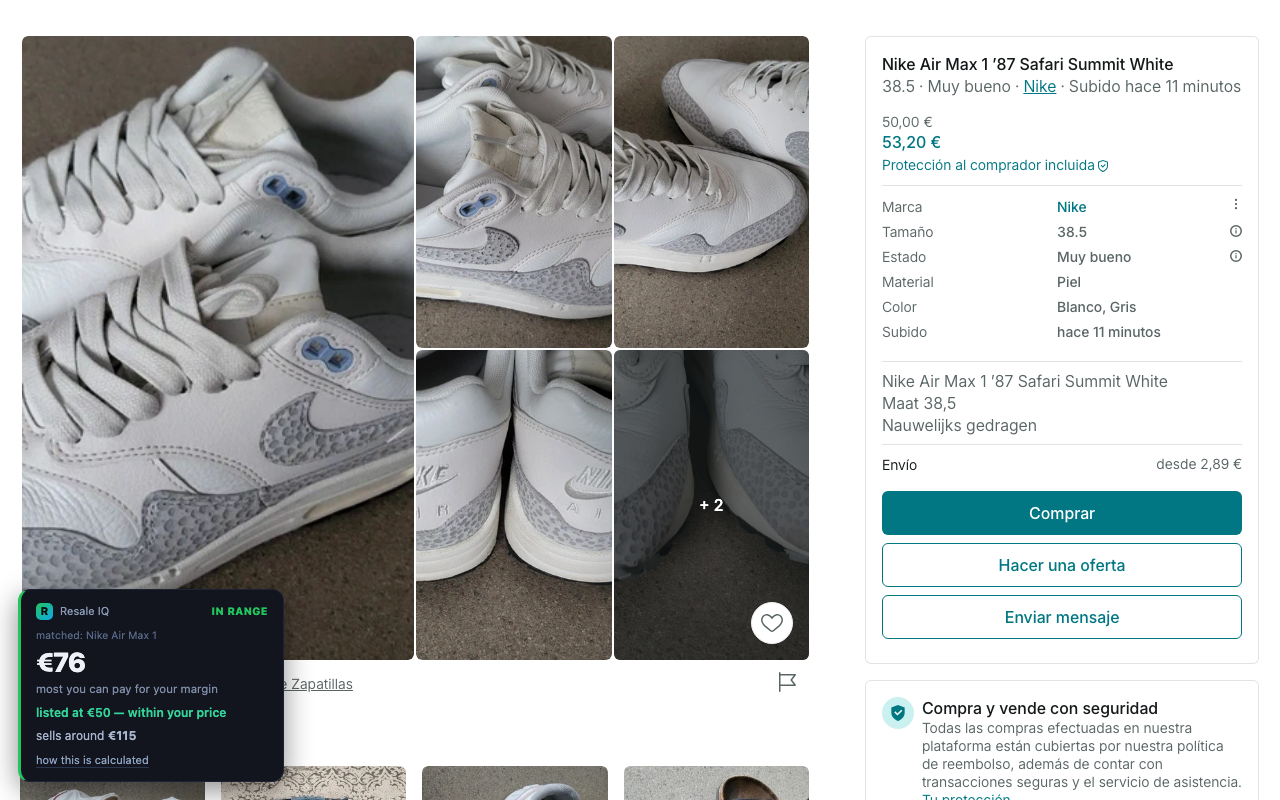
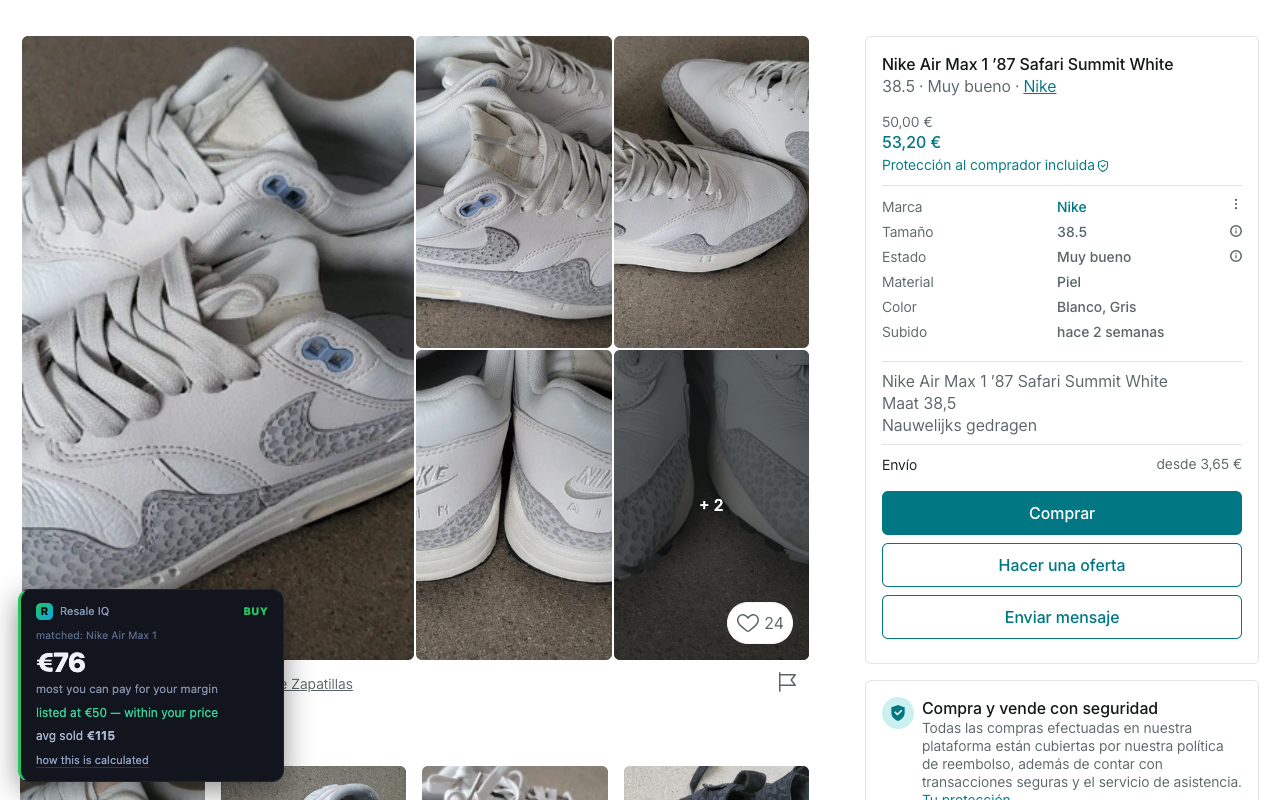
fix(store-assets): screenshots read the real asking price, and show BUY/SKIP
The two store screenshots were from 14 Aug and still showed IN RANGE / TOO DEAR,
which 1.3.0 no longer has. STORE-LISTING.md warns not to submit with them —
Google compares screenshots to the running UI.

Regenerating exposed a worse problem. The asking prices were hardcoded, and the
Jordan listing had moved 140 -> 120, so the panel claimed "listed at €140" on a
page that visibly showed 120,00 €. Same image, two different numbers.

The price now comes from Vinted's own [data-testid="item-price"], read BEFORE
the element-stripping below runs — reading it after removes the price block, and
an innerText regex then picked up the shipping cost and called a 50 euro sneaker
5 euros.

Also launches the system Chrome: macOS 12 has no supported bundled Chromium.

diff --git a/extension/store-assets/make-screenshots.py b/extension/store-assets/make-screenshots.py
@@ -62,8 +62,17 @@ def card(d, asking):
       <a class="riq-link" href="#">how this is calculated</a>
     </div></div>'''
 
+def _launch(p):
+    """macOS 12 has no supported bundled Chromium build, so drive the system
+    Chrome. Same wall the growth engine's capture.js hit — see launchChrome()."""
+    try:
+        return p.chromium.launch(headless=True, channel="chrome")
+    except Exception:
+        return p.chromium.launch(headless=True)
+
+
 with sync_playwright() as p:
-    b = p.chromium.launch(headless=True)
+    b = _launch(p)
     page = b.new_page(viewport={"width": 1280, "height": 800})
     for name, url, d, asking in SHOTS:
         html = card(d, asking)
@@ -85,6 +94,23 @@ with sync_playwright() as p:
             except Exception:
                 pass
         page.wait_for_timeout(1500)
+
+        # Read the asking price NOW, off the untouched DOM, from Vinted's own
+        # testid. Two bugs lived here: the price was hardcoded and had gone
+        # stale (the panel claimed EUR140 on a page showing EUR120), and a
+        # regex over innerText ran AFTER the element-stripping below, which
+        # removes the price block - so it read the shipping cost instead and
+        # called a 50 euro sneaker 5 euros.
+        try:
+            txt = page.locator('[data-testid="item-price"]').first.inner_text(timeout=5000)
+            live = float(txt.replace("\u00a0", " ").split("\u20ac")[0].strip().replace(".", "").replace(",", "."))
+        except Exception:
+            live = None
+        if live and live > 1:
+            if abs(live - asking) > 0.5:
+                print(f"    page says \u20ac{live:.0f}, script had \u20ac{asking:.0f} - using the page")
+            asking = live
+            html = card(d, asking)
 
         # If the wall survived, strip it and any backdrop rather than ship a
         # screenshot of a dimmed page.
@@ -122,6 +148,7 @@ with sync_playwright() as p:
           }
         }""")
         page.wait_for_timeout(900)
+
         page.add_style_tag(content=CSS)
         page.evaluate("h => document.body.insertAdjacentHTML('beforeend', h)", html)
         page.wait_for_timeout(400)
